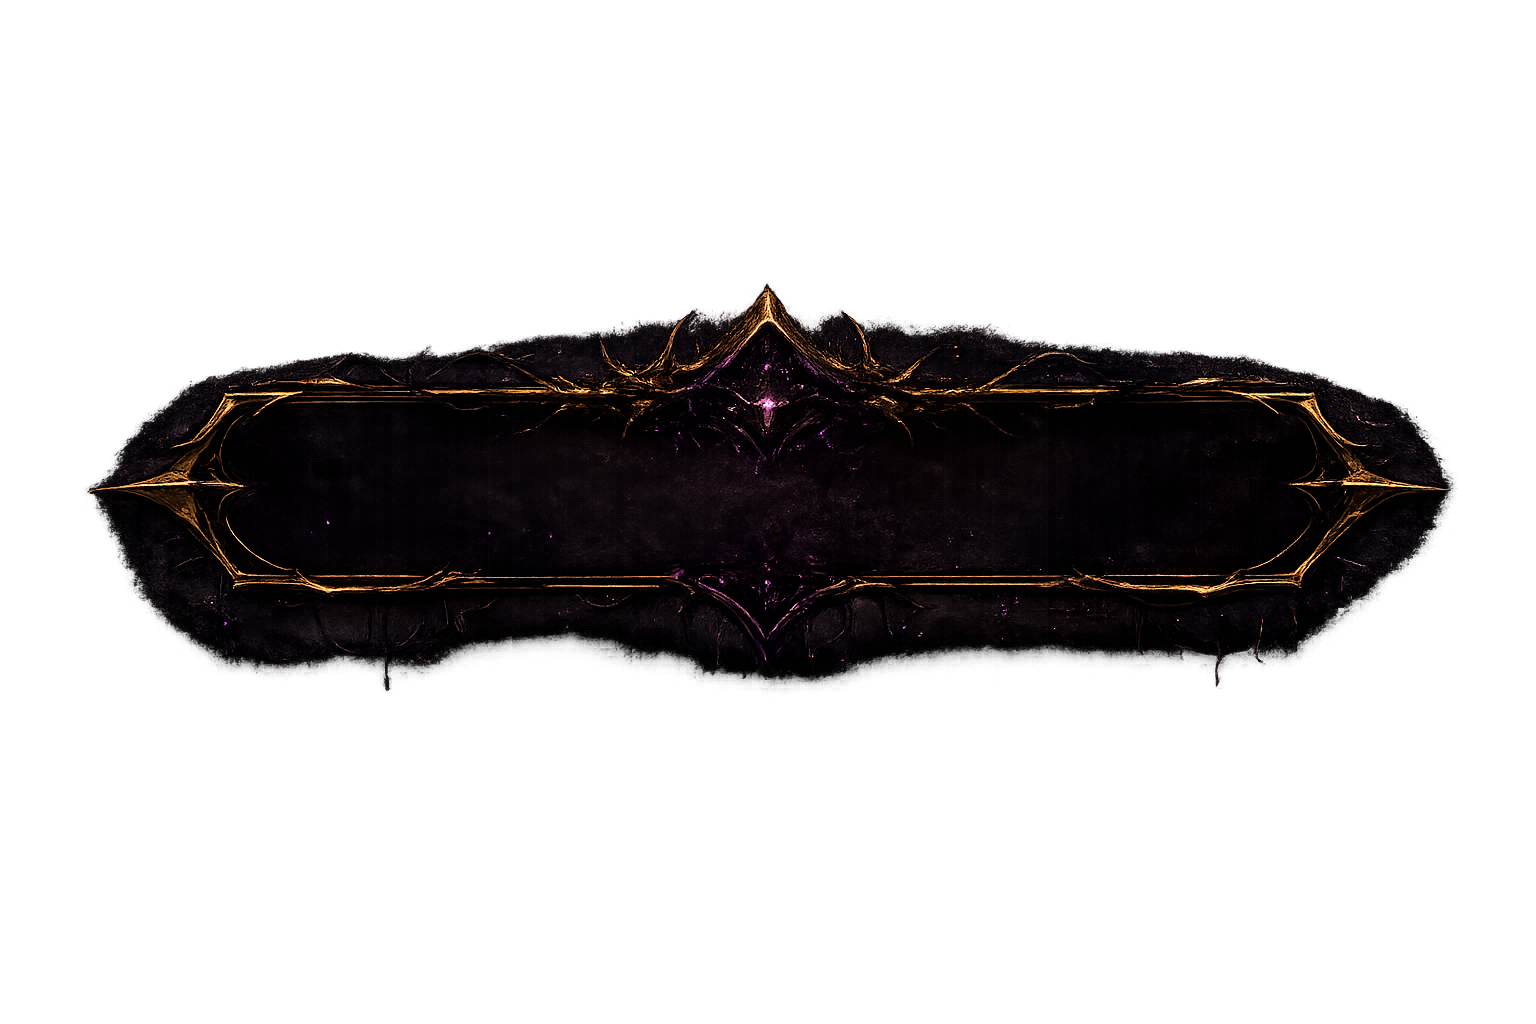
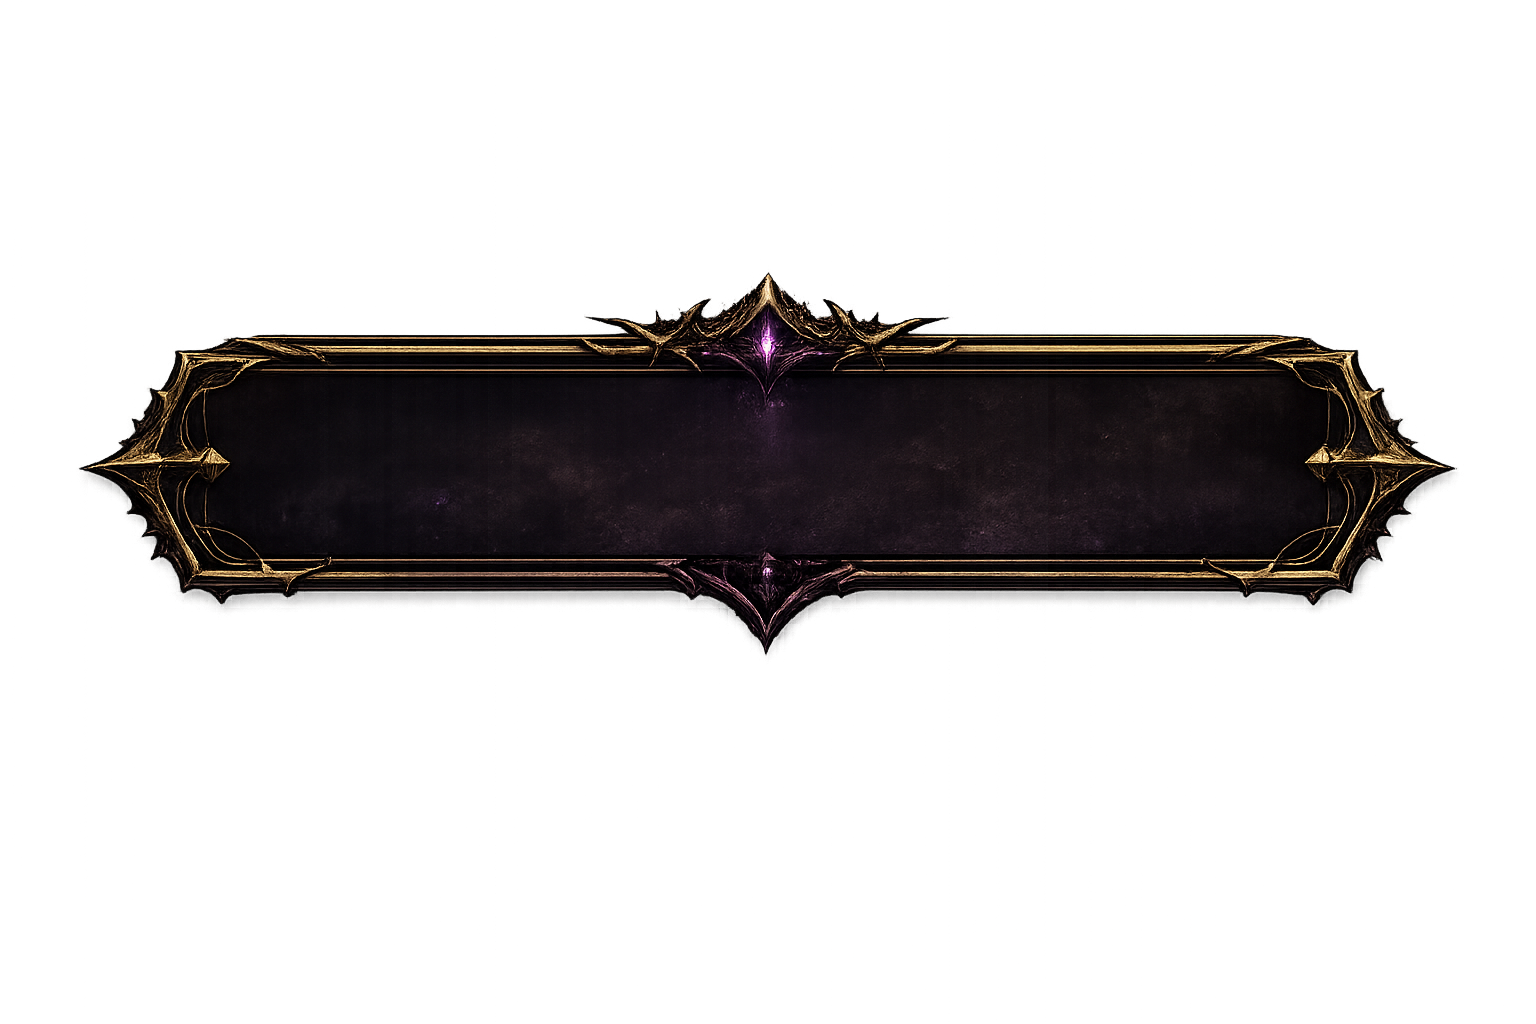
More main menu tweaks

Changed region(s): [[0.0312, 0.2812, 0.9688, 0.6875], [0.3438, 0.4375, 0.375, 0.4688], [0.2812, 0.4688, 0.3125, 0.5]]

diff --git a/src/client/main.cpp b/src/client/main.cpp
@@ -1536,7 +1536,7 @@ int main(int argc, char** argv)
         if (mainMenuTitleFrameTexture)
         {
             // Stretch the frame to the dest rect (contain letterboxes and won't grow padding).
-            const sf::FloatRect frameRect{{180.0f, 16.0f}, {440.0f, 130.0f}};
+            const sf::FloatRect frameRect{{190.0f, 26.0f}, {420.0f, 130.0f}};
             const sf::IntRect textureRect({86, 307}, {1368, 403});
             sf::Sprite frame(*mainMenuTitleFrameTexture);
             frame.setTextureRect(textureRect);

diff --git a/src/client/client_textures.cpp b/src/client/client_textures.cpp
@@ -111,10 +111,6 @@ void drawBackdrop(sf::RenderWindow& window, sf::Texture* backdropTexture)
     wash.setFillColor(sf::Color(3, 8, 10, 145));
     window.draw(wash);
 
-    sf::RectangleShape topShade({800.0f, 140.0f});
-    topShade.setFillColor(sf::Color(3, 7, 9, 188));
-    window.draw(topShade);
-
     sf::RectangleShape bottomShade({800.0f, 96.0f});
     bottomShade.setPosition({0.0f, 504.0f});
     bottomShade.setFillColor(sf::Color(2, 5, 6, 92));

diff --git a/agents.md b/agents.md
@@ -8,6 +8,7 @@ the game coordinator spawns per-match processes via `CreateProcessA` (see the
 
 - `build_debug.bat` / `build_release.bat` — build all targets (client, accounts,
   matchmaking, gameserver, gametest, cardserver) from the CMake `build/` tree.
+- `build_debug_client.bat` — build only the client (Debug).
 
 ## Run the services
 
